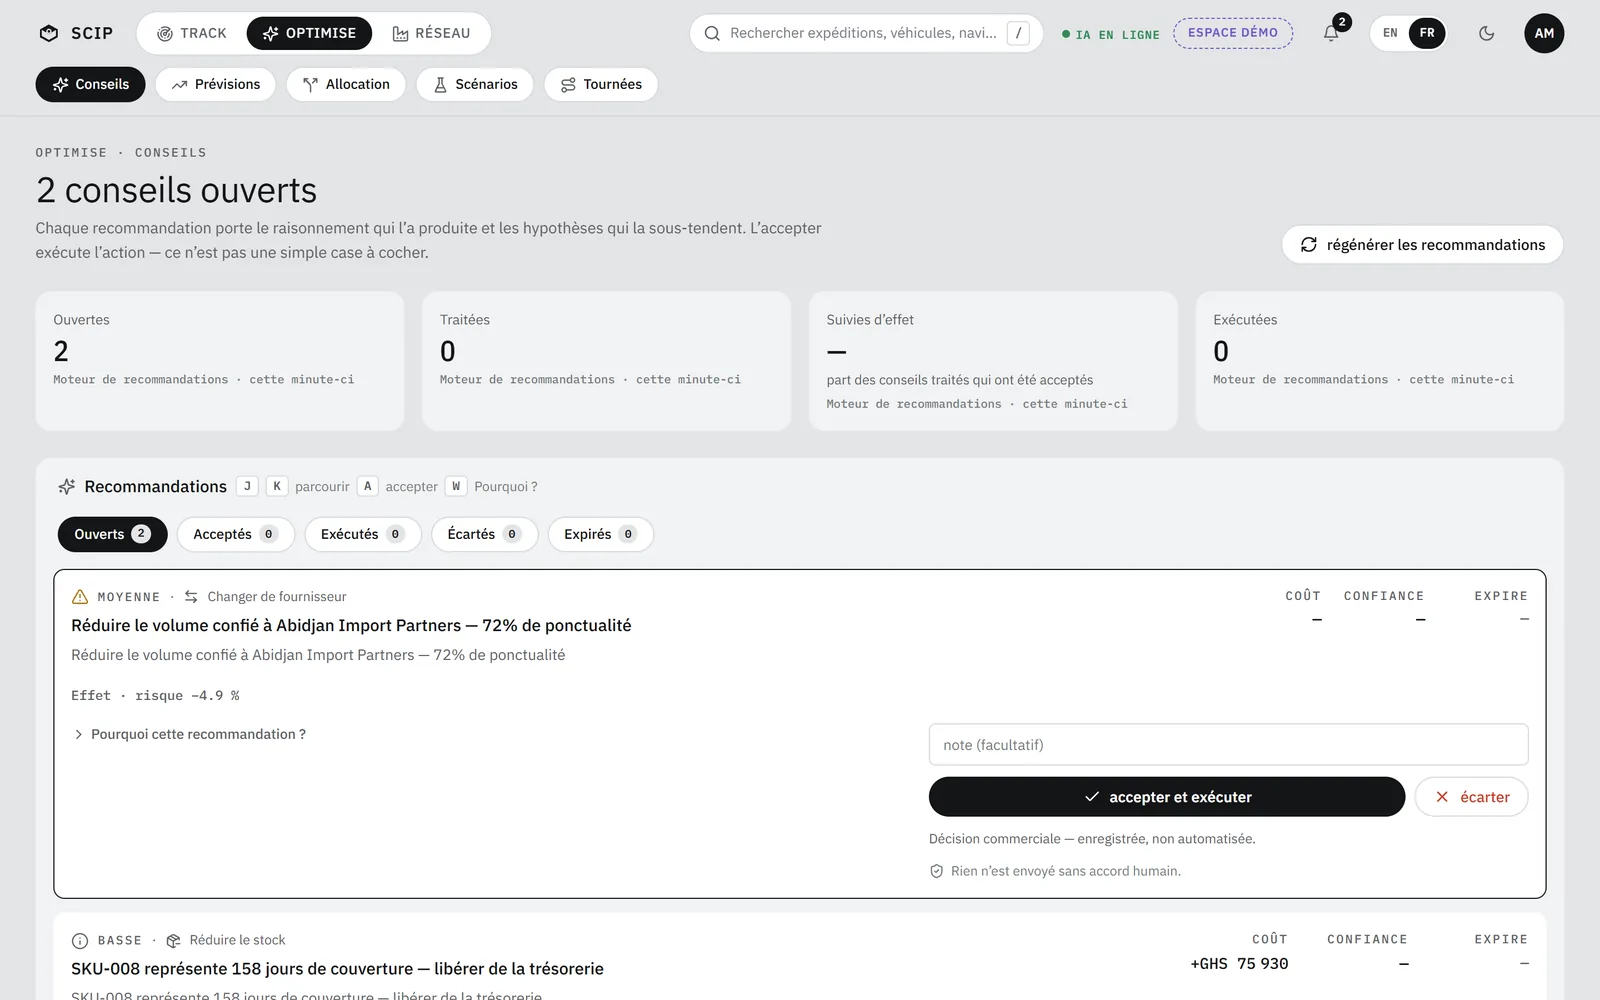
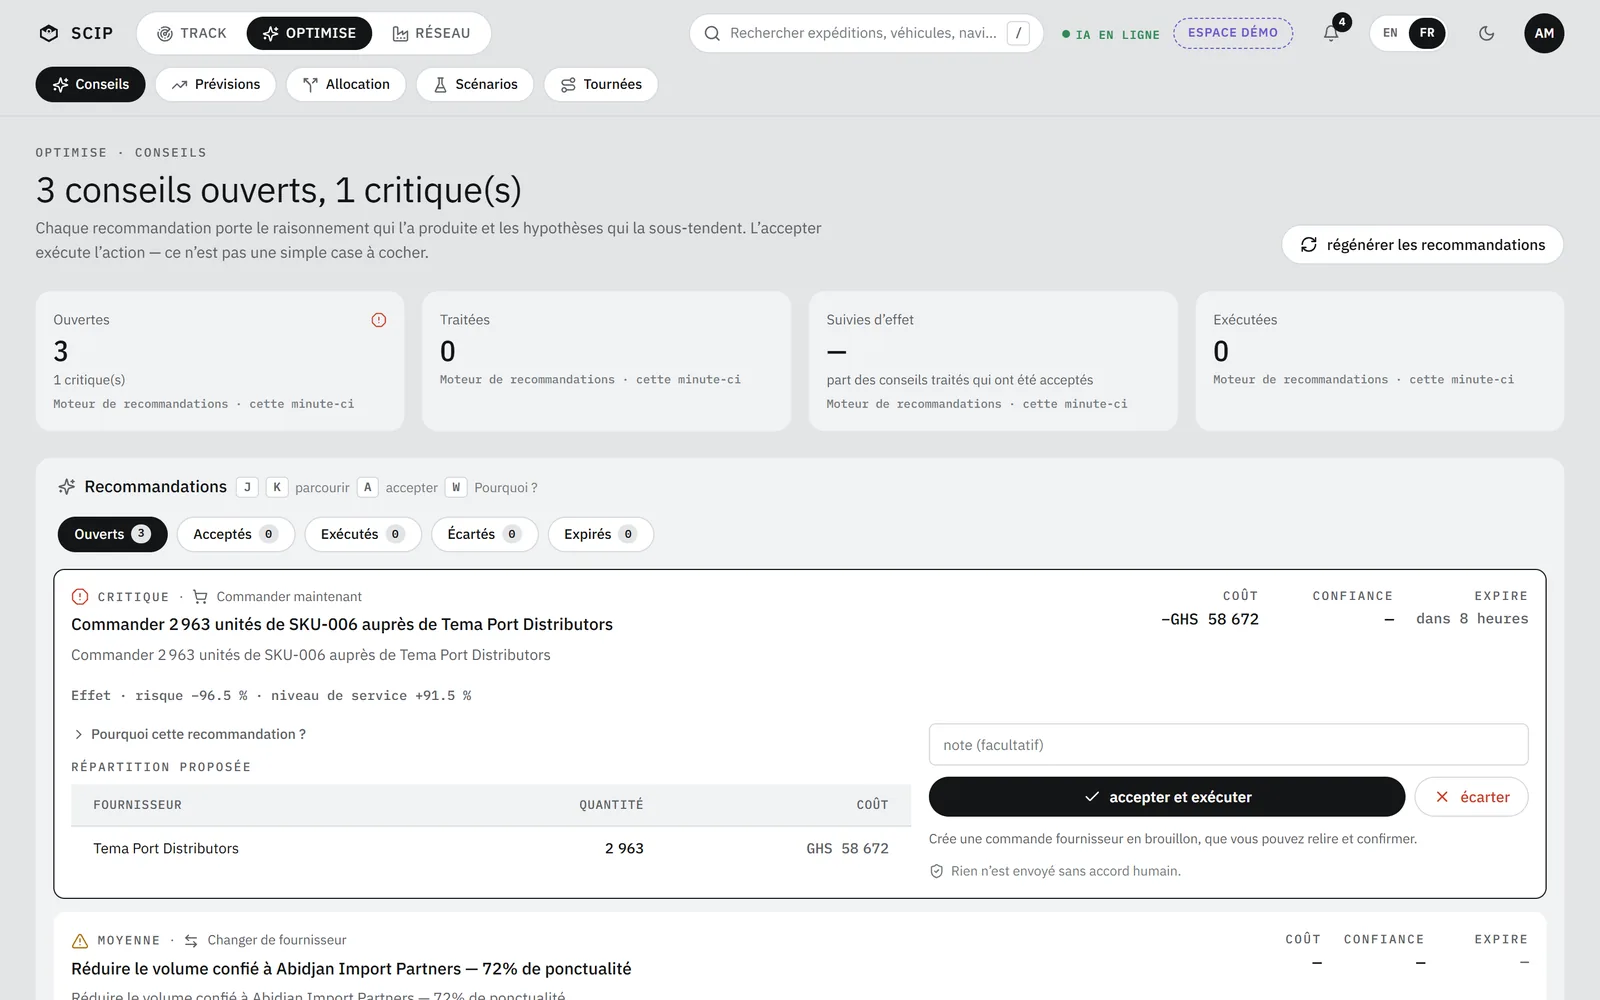
feat(site): captures and figures of the fixed demo
Conseils, Control and Commandes are shown as the next version displays them
(docs/captures/v0.2.2): three open recommendations, the critical one to order
2 963 units of SKU-006 from Tema Port Distributors with its first reason, and
the purchase order created by accepting it. Same conversion as the other
captures (1600 px wide, WebP quality 82). The copy and the alternative texts
quote these screens.

The installer capture is left as it is: the new one is labelled 0.2.2, a
version that will not exist.

To publish with the release that carries these fixes, not before.

diff --git a/site/optimisation.html b/site/optimisation.html
@@ -47,7 +47,7 @@
             <img src="assets/screens/tournees.webp" width="1600" height="1000" decoding="async" alt="Écran Tournées de SCIP : une tournée, cinq arrêts, trois non desservis.">
           </div>
           <div class="shot-win fan-b tilt" data-tilt="2" data-tilt-base="rotate(1deg)">
-            <img src="assets/screens/conseils.webp" width="1600" height="1000" fetchpriority="high" decoding="async" alt="Écran Conseils de SCIP : « 2 conseils ouverts ».">
+            <img src="assets/screens/conseils.webp" width="1600" height="1000" fetchpriority="high" decoding="async" alt="Écran Conseils de SCIP : « 3 conseils ouverts, 1 critique(s) », en tête « Commander 2 963 unités de SKU-006 auprès de Tema Port Distributors ».">
           </div>
         </div>
         <figcaption>Prévisions · Conseils · Tournées <span class="demo-tag">données démo</span></figcaption>
@@ -71,10 +71,10 @@
           <span class="mono n">01</span>
           <h3 class="t-section">Conseils</h3>
           <p class="t-body">Chaque recommandation porte « Pourquoi cette recommandation&nbsp;? » : un résumé, des raisons, des hypothèses. Deux boutons : « accepter et exécuter », « écarter ».</p>
-          <p class="fact">Dans la démo : 2 conseils ouverts. « Réduire le volume confié à Abidjan Import Partners », 72&nbsp;% de ponctualité ; « SKU&#8209;008 représente 158 jours de couverture ».</p>
+          <p class="fact">Dans la démo : 3 conseils ouverts, dont 1 critique. En tête : « Commander 2&nbsp;963 unités de SKU&#8209;006 auprès de Tema Port Distributors ». Première raison affichée : « Le calcul porte sur Accra Central DC seul : ce site est sous son point de commande. »</p>
         </div>
         <figure class="shot reveal">
-          <div class="shot-win" data-float="14"><img src="assets/screens/conseils-pourquoi.webp" width="1600" height="1000" loading="lazy" decoding="async" alt="Écran Conseils de SCIP, « Pourquoi cette recommandation ? » déplié : trois raisons, une hypothèse, les boutons « accepter et exécuter » et « écarter », la mention « Rien n'est envoyé sans accord humain »."></div>
+          <div class="shot-win" data-float="14"><img src="assets/screens/conseils-pourquoi.webp" width="1600" height="1000" loading="lazy" decoding="async" alt="Écran Conseils de SCIP, « Pourquoi cette recommandation ? » déplié sur le conseil de commande du SKU-006 : les raisons, dont « Le calcul porte sur Accra Central DC seul », les boutons « accepter et exécuter » et « écarter », la mention « Rien n'est envoyé sans accord humain »."></div>
           <figcaption>Optimise · Conseils <span class="demo-tag">données démo</span></figcaption>
         </figure>
       </article>

diff --git a/site/index.html b/site/index.html
@@ -157,14 +157,14 @@
       </div>
       <figure class="shot loop-shot reveal">
         <div class="shot-win" data-float="18">
-          <img src="assets/screens/control.webp" width="1600" height="1000" loading="lazy" decoding="async" alt="Écran Control de SCIP : « 2 décisions en attente », six indicateurs, la Boucle de décision en quatre étapes, les décisions en attente et la file d'alertes avec les retards de SHP-DEMO-0054 et SHP-DEMO-0055.">
+          <img src="assets/screens/control.webp" width="1600" height="1000" loading="lazy" decoding="async" alt="Écran Control de SCIP : « 3 décisions en attente, 1 critique », six indicateurs, la Boucle de décision en quatre étapes, les décisions en attente et la file d'alertes avec les retards de SHP-DEMO-0054 et SHP-DEMO-0055.">
         </div>
         <figcaption>Track · Control <span class="demo-tag">données démo</span> <span class="cap-note">15 expéditions actives dont 2 en retard · 11 camions sur 12 émettent · 3 302 643 GHS de stock sur 10 références</span></figcaption>
       </figure>
       <ol class="loop-steps reveal">
-        <li style="--i: 0"><span class="mono n">01</span><b>TRACK détecte</b><span>2 signaux à examiner</span></li>
+        <li style="--i: 0"><span class="mono n">01</span><b>TRACK détecte</b><span>6 signaux à examiner</span></li>
         <li style="--i: 1"><span class="mono n">02</span><b>OPTIMISE recalcule</b><span>prévision, allocation, tournées</span></li>
-        <li style="--i: 2"><span class="mono n">03</span><b>Recommandation</b><span>2 ouvertes</span></li>
+        <li style="--i: 2"><span class="mono n">03</span><b>Recommandation</b><span>3 ouvertes</span></li>
         <li style="--i: 3"><span class="mono n">04</span><b>Décision humaine · BC créé</b><span>rien n&rsquo;est envoyé sans accord</span></li>
       </ol>
       <p class="loop-note reveal"><span class="demo-tag">données démo</span> Les libellés et les compteurs sont ceux de l&rsquo;écran ci-dessus. Au clavier dans Control : <kbd>J</kbd> <kbd>K</kbd> suivante, précédente · <kbd>A</kbd> accepter · <kbd>W</kbd> pourquoi&nbsp;? · <kbd>/</kbd> rechercher.</p>

diff --git a/site/reseau.html b/site/reseau.html
@@ -73,14 +73,14 @@
 
       <article class="tab-block flip">
         <figure class="shot reveal">
-          <div class="shot-win" data-float="14"><img src="assets/screens/commandes.webp" width="1600" height="1000" loading="lazy" decoding="async" alt="Écran Commandes de SCIP : « 1 commande en retard sur 3 ouvertes », liste des bons de commande avec leur statut."></div>
+          <div class="shot-win" data-float="14"><img src="assets/screens/commandes.webp" width="1600" height="1000" loading="lazy" decoding="async" alt="Écran Commandes de SCIP : « 1 commande en retard sur 4 ouvertes », liste des bons de commande ; en tête PO-2026-0305, origine « Recommandation », brouillon, Tema Port Distributors, WH-ACC, GHS 58 672."></div>
           <figcaption>Réseau · Commandes <span class="demo-tag">données démo</span></figcaption>
         </figure>
         <div class="tab-copy reveal">
           <span class="mono n">Commandes</span>
           <h3 class="t-section">De la recommandation au bon.</h3>
           <p class="t-body">Un bon de commande né d&rsquo;un conseil porte l&rsquo;origine « Recommandation ». Le menu « passer à… » le fait avancer : En attente, puis Confirmée.</p>
-          <p class="fact">Dans la démo : 1 commande en retard sur 3 ouvertes. Dans cette capture, toutes les commandes sont d&rsquo;origine « Manuelle ».</p>
+          <p class="fact">Dans la démo : 1 commande en retard sur 4 ouvertes. En tête de liste, le bon PO&#8209;2026&#8209;0305 créé en acceptant le conseil sur le SKU&#8209;006 : origine « Recommandation », brouillon, Tema Port Distributors, WH&#8209;ACC, GHS 58&nbsp;672.</p>
         </div>
       </article>
 
